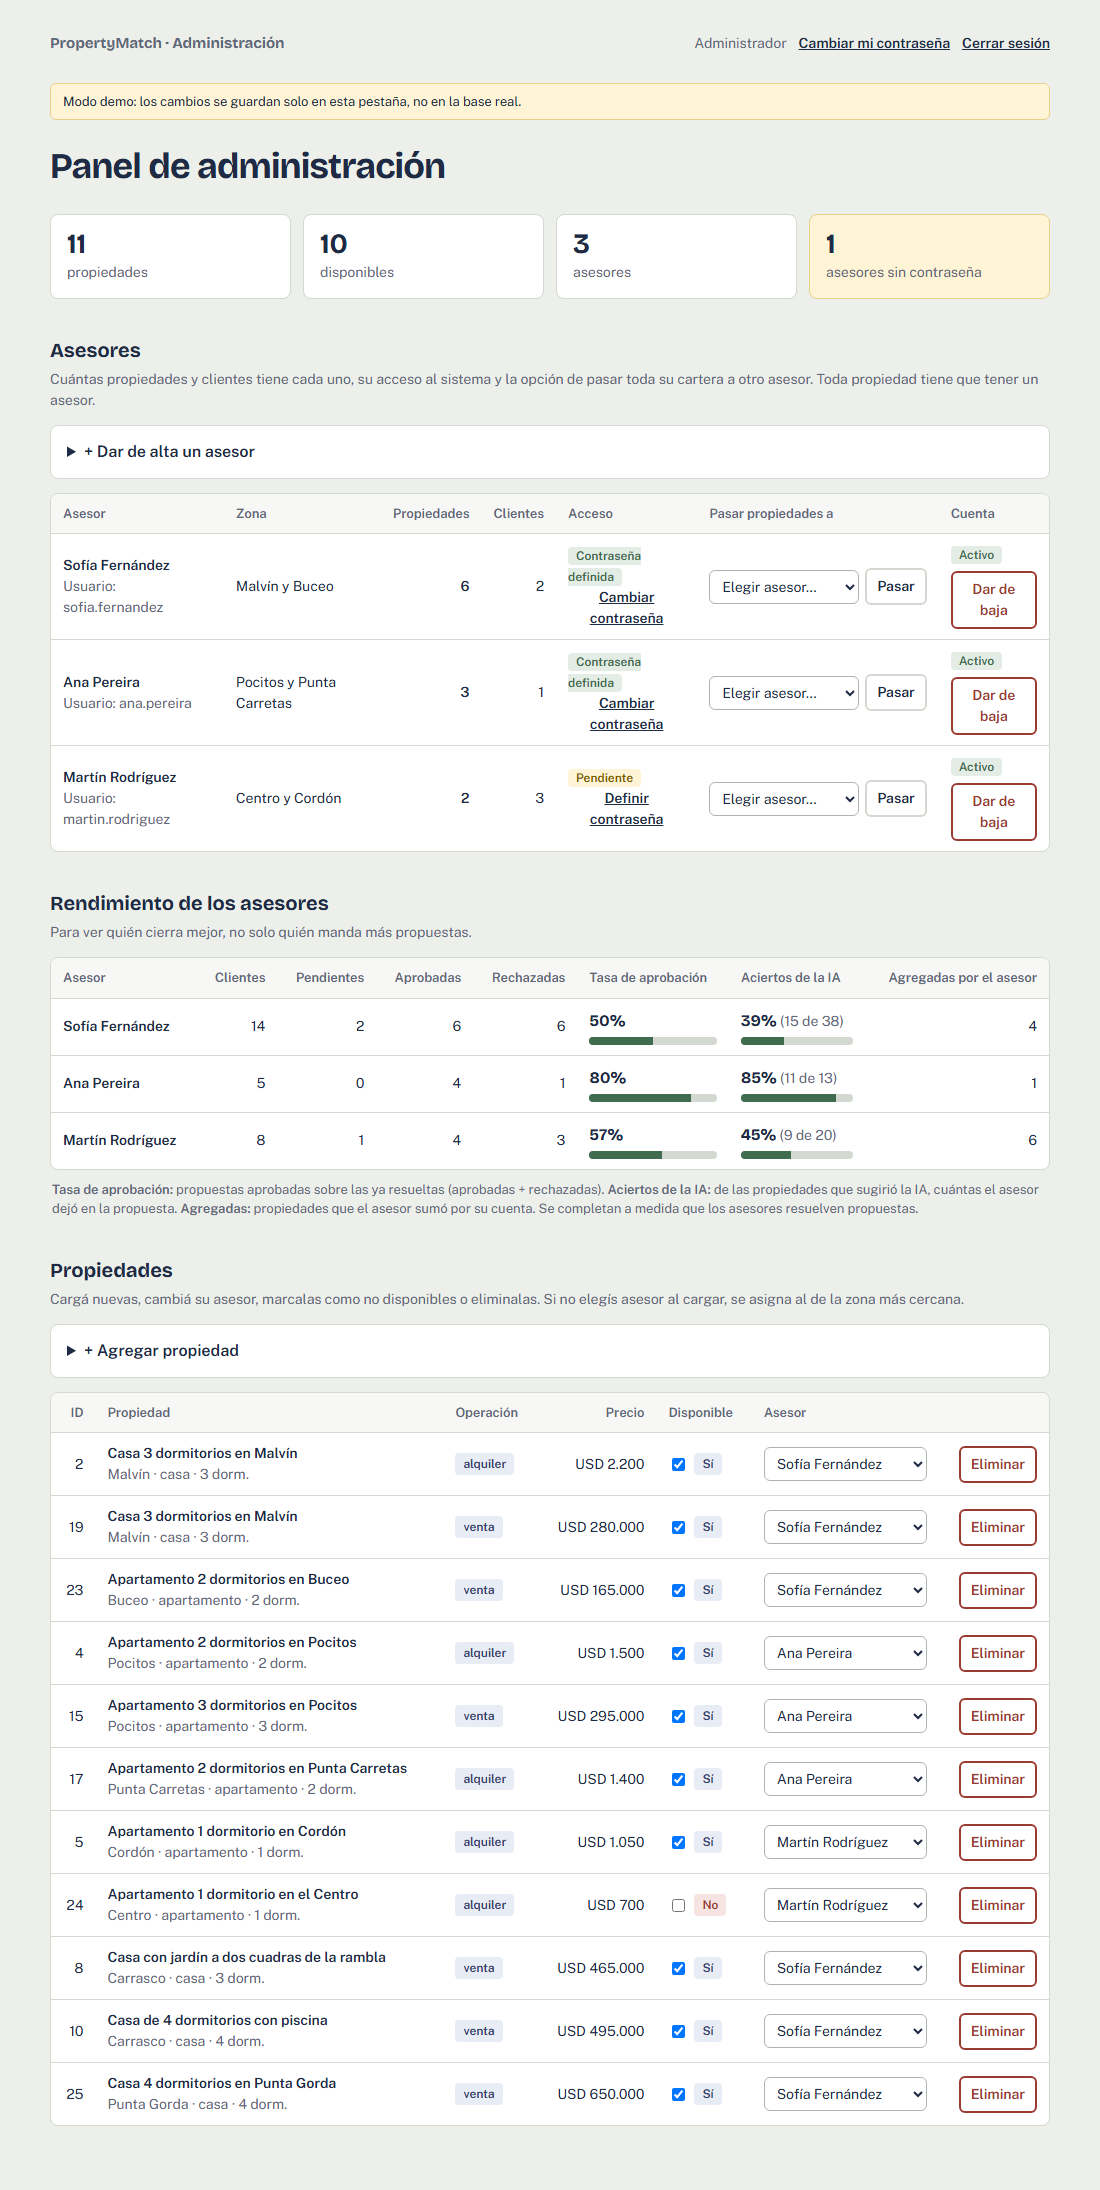
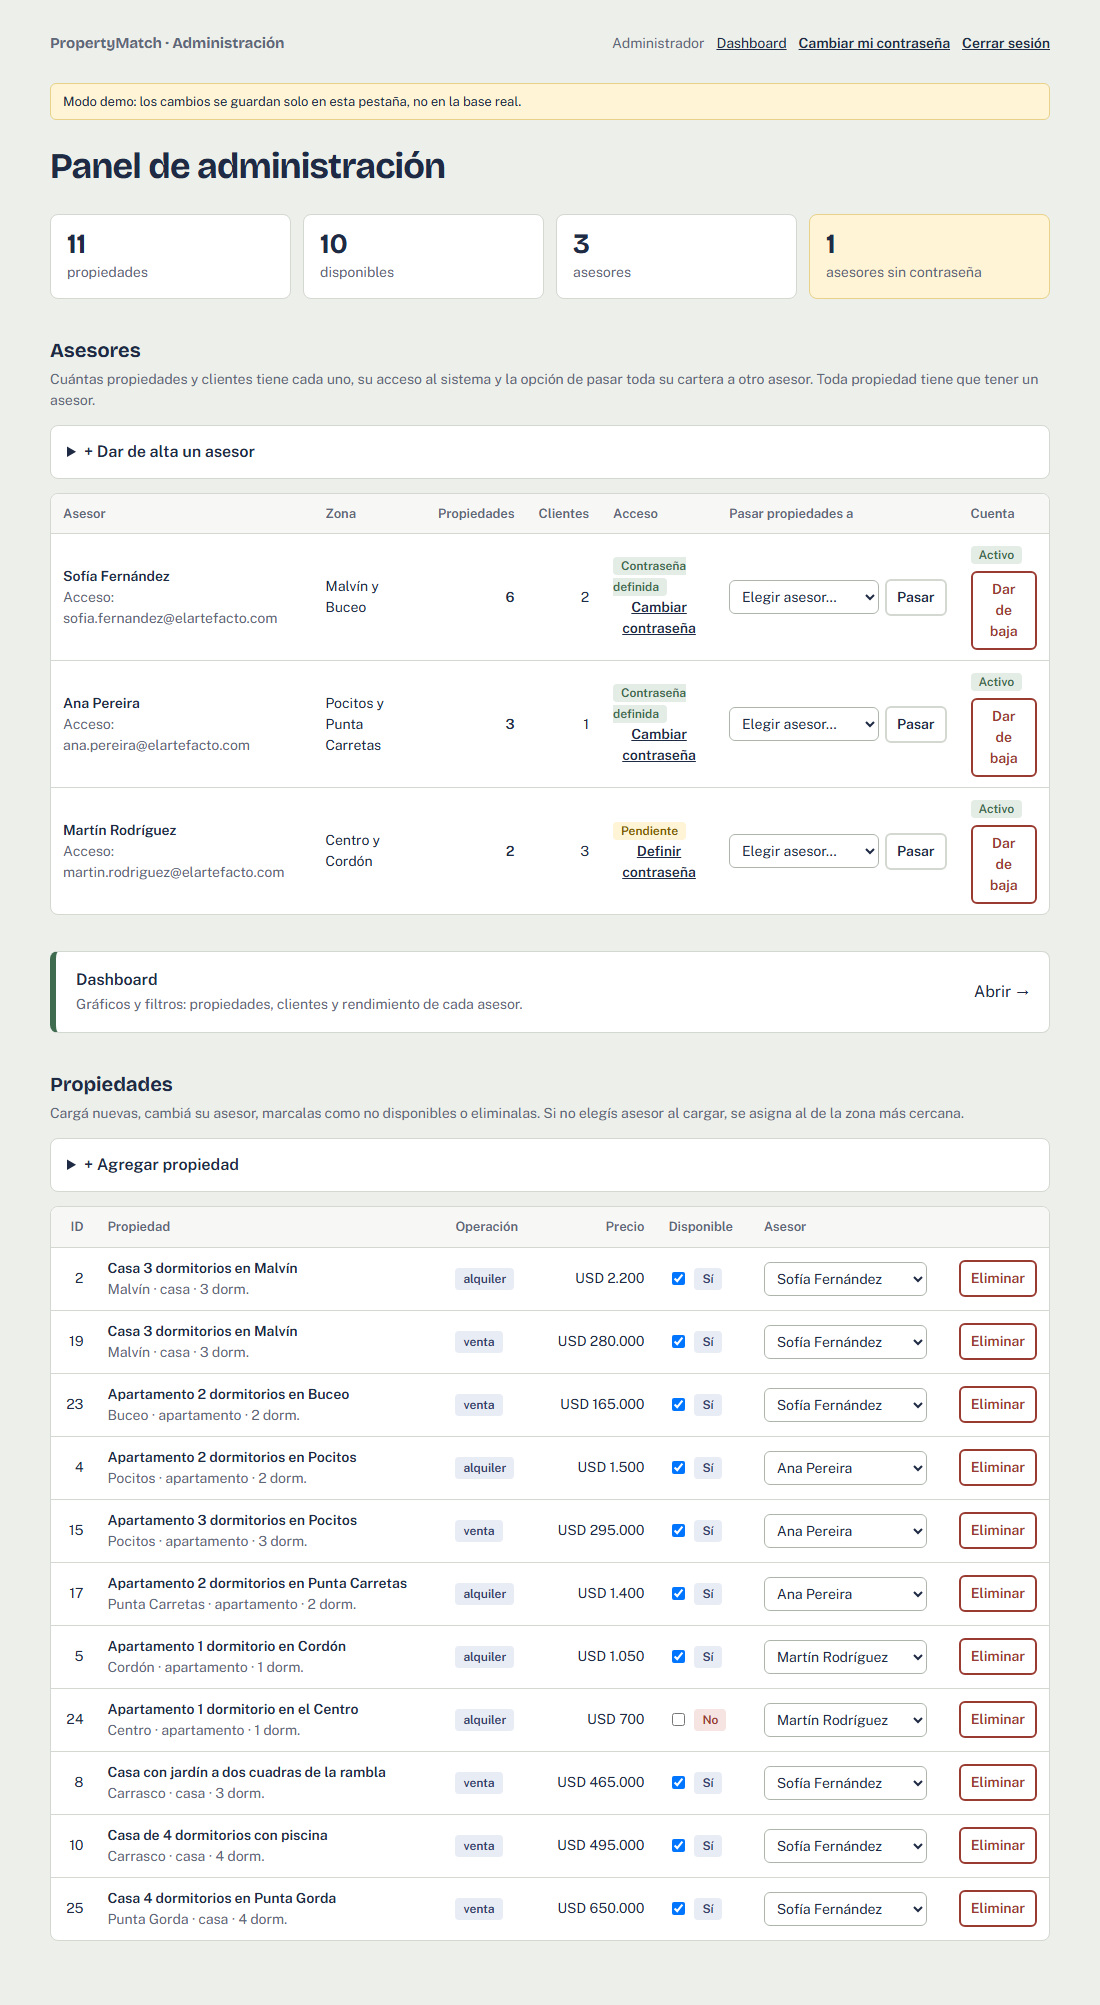
Login de asesores con email y contrasena; asesores = integrantes del grupo
- api/admin.js: el asesor entra con su email; el alta de asesores usa el mail como usuario
- index.html: el campo del login pasa a Email para asesores y Usuario para el administrador
- admin.html y auth.js: el panel muestra el acceso por email; el alta ya no pide usuario aparte
- docs y capturas actualizados

diff --git a/admin.html b/admin.html
@@ -90,10 +90,9 @@
             <div><label for="aEmail">Email</label><input type="email" id="aEmail" maxlength="160" required></div>
             <div><label for="aTel">Teléfono (opcional)</label><input type="text" id="aTel" maxlength="40"></div>
             <div><label for="aZona">Zona que cubre</label><input type="text" id="aZona" maxlength="100" placeholder="Ej.: Malvín y Buceo" required></div>
-            <div><label for="aUsuario">Usuario</label><input type="text" id="aUsuario" maxlength="40" autocapitalize="none" spellcheck="false" required></div>
             <div><label for="aClave">Contraseña inicial</label><input type="password" id="aClave" autocomplete="new-password" minlength="8" required></div>
           </div>
-          <p class="nota" style="margin:0 0 14px">La zona se usa para asignarle propiedades por cercanía. La contraseña tiene al menos 8 caracteres; la persona puede pedir que se la cambien.</p>
+          <p class="nota" style="margin:0 0 14px">La persona entra con su email. La zona se usa para asignarle propiedades por cercanía. La contraseña tiene al menos 8 caracteres.</p>
           <div class="acciones-form">
             <button type="submit" class="btn-ok">Dar de alta</button>
             <span id="errAsesor" class="msg err" role="alert" hidden></span>
@@ -222,7 +221,7 @@ function pintar() {
 
   $("tAsesores").innerHTML = asesores.map(a => `
     <tr class="${a.activo ? "" : "inactivo"}">
-      <td><strong>${esc(a.nombre)}</strong><br><span class="sub" style="margin:0">Usuario: ${esc(a.usuario || "—")}</span></td>
+      <td><strong>${esc(a.nombre)}</strong><br><span class="sub" style="margin:0">Acceso: ${esc(a.usuario || a.email || "—")}</span></td>
       <td>${esc(a.zona || "—")}</td>
       <td class="num"><strong>${a.propiedades_asignadas}</strong></td>
       <td class="num">${a.clientes_asignados}</td>
@@ -313,7 +312,7 @@ document.addEventListener("click", async e => {
   }
   if (b.dataset.clave) {
     const a = asesores.find(x => x.id === Number(b.dataset.clave));
-    abrirClave({ id: a.id, titulo: `Contraseña de ${a.nombre}`, sub: `Usuario: ${a.usuario}. La persona la usa para entrar como asesor.`, propia: false });
+    abrirClave({ id: a.id, titulo: `Contraseña de ${a.nombre}`, sub: `Entra con el email ${a.usuario}.`, propia: false });
   }
   if (b.dataset.traspasar) {
     const de = Number(b.dataset.traspasar);
@@ -370,7 +369,7 @@ $("formAsesor").addEventListener("submit", async e => {
   err.hidden = true;
   const datos = {
     nombre: $("aNombre").value.trim(), email: $("aEmail").value.trim(), telefono: $("aTel").value.trim(),
-    zona: $("aZona").value.trim(), usuario: $("aUsuario").value.trim().toLowerCase(), password: $("aClave").value
+    zona: $("aZona").value.trim(), password: $("aClave").value
   };
   const boton = e.target.querySelector("button[type=submit]");
   boton.disabled = true;
@@ -379,7 +378,7 @@ $("formAsesor").addEventListener("submit", async e => {
   if (!r.ok) { err.textContent = r.error || "No se pudo dar de alta."; err.hidden = false; return; }
   e.target.reset();
   $("nuevoAsesor").open = false;
-  aviso(`${r.asesor.nombre} ya puede entrar con el usuario ${r.asesor.usuario}.`);
+  aviso(`${r.asesor.nombre} ya puede entrar con su email (${r.asesor.usuario}).`);
   await cargar();
 });
 

diff --git a/auth.js b/auth.js
@@ -8,7 +8,7 @@
    ========================================================= */
 const PM = (() => {
   const KEY = "pm_sesion";
-  const DEMO_KEY = "pm_demo_db_v4";
+  const DEMO_KEY = "pm_demo_db_v5";
 
   const get = () => {
     try {
@@ -49,9 +49,9 @@ const PM = (() => {
     const db = {
       sig: 100,
       asesores: [
-        { id: 1, nombre: "Sofía Fernández", usuario: "sofia.fernandez", email: "sofia.fernandez@elartefacto.com", telefono: "099 111 222", zona: "Malvín y Buceo", activo: true, tiene_clave: true },
-        { id: 2, nombre: "Ana Pereira", usuario: "ana.pereira", email: "ana.pereira@elartefacto.com", telefono: "099 333 444", zona: "Pocitos y Punta Carretas", activo: true, tiene_clave: true },
-        { id: 3, nombre: "Martín Rodríguez", usuario: "martin.rodriguez", email: "martin.rodriguez@elartefacto.com", telefono: "099 555 666", zona: "Centro y Cordón", activo: true, tiene_clave: false }
+        { id: 1, nombre: "Sofía Fernández", usuario: "sofia.fernandez@elartefacto.com", email: "sofia.fernandez@elartefacto.com", telefono: "099 111 222", zona: "Malvín y Buceo", activo: true, tiene_clave: true },
+        { id: 2, nombre: "Ana Pereira", usuario: "ana.pereira@elartefacto.com", email: "ana.pereira@elartefacto.com", telefono: "099 333 444", zona: "Pocitos y Punta Carretas", activo: true, tiene_clave: true },
+        { id: 3, nombre: "Martín Rodríguez", usuario: "martin.rodriguez@elartefacto.com", email: "martin.rodriguez@elartefacto.com", telefono: "099 555 666", zona: "Centro y Cordón", activo: true, tiene_clave: false }
       ],
       clientes: [1, 1, 2, 3, 3, 3],
       rendimiento: {
@@ -188,13 +188,12 @@ const PM = (() => {
       }) };
     }
     if (action === "crear_asesor") {
-      const usuario = String(d.usuario || "").trim().toLowerCase();
+      const usuario = String(d.email || "").trim().toLowerCase();
       if (!String(d.nombre || "").trim()) return err("Falta el nombre.");
       if (!/^[^@\s]+@[^@\s]+\.[^@\s]+$/.test(String(d.email || ""))) return err("El email no es válido.");
-      if (!/^[a-z0-9._-]{3,40}$/.test(usuario)) return err("El usuario debe tener entre 3 y 40 caracteres: letras, números, punto, guion o guion bajo.");
       if (!String(d.zona || "").trim()) return err("Falta la zona: se usa para asignarle propiedades por cercanía.");
       if (String(d.password || "").length < 8) return err("La contraseña debe tener entre 8 y 100 caracteres.");
-      if (db.asesores.some(a => a.usuario === usuario)) return err("Ya existe un asesor con ese usuario.");
+      if (db.asesores.some(a => a.usuario === usuario)) return err("Ya existe un asesor con ese mail.");
       const id = Math.max(...db.asesores.map(a => a.id)) + 1;
       db.asesores.push({ id, nombre: d.nombre.trim(), usuario, email: d.email, telefono: d.telefono || "", zona: d.zona.trim(), activo: true, tiene_clave: true });
       guardarDemo(db);

diff --git a/api/admin.js b/api/admin.js
@@ -111,10 +111,11 @@ export default async function handler(req, res) {
       const password = typeof d.password === 'string' ? d.password : '';
       if (!usuario || !password) return fallo(res, 400, 'Ingresá usuario y contraseña.');
 
-      const { data, error } = await db.from('asesores')
-        .select('id,nombre,zona,usuario,password_hash,rol,activo').ilike('usuario', usuario.replace(/[%_\\]/g, '\\$&')).limit(1);
+      // El asesor entra con su mail (que es su usuario); el administrador, con su nombre de usuario.
+      const { data, error } = await db.from('asesores').select('id,nombre,zona,usuario,email,password_hash,rol,activo').eq('rol', rol);
       if (error) throw error;
-      const u = (data || [])[0];
+      const limpio = v => String(v ?? '').trim().toLowerCase();
+      const u = (data || []).find(x => limpio(x.usuario) === usuario || limpio(x.email) === usuario);
       const correcto = verificar(password, u?.password_hash) && !!u && u.activo && u.rol === rol;
       if (!correcto) {
         await new Promise(r => setTimeout(r, 700)); // frena los intentos repetidos
@@ -253,10 +254,9 @@ export default async function handler(req, res) {
 
     if (action === 'crear_asesor') {
       const nombre = texto(d.nombre, 100), email = texto(d.email, 160).toLowerCase();
-      const usuario = texto(d.usuario, 40).toLowerCase(), zona = texto(d.zona, 100);
+      const usuario = email, zona = texto(d.zona, 100); // el usuario del asesor es su mail
       if (!nombre) return fallo(res, 400, 'Falta el nombre.');
       if (!/^[^@\s]+@[^@\s]+\.[^@\s]+$/.test(email)) return fallo(res, 400, 'El email no es válido.');
-      if (!/^[a-z0-9._-]{3,40}$/.test(usuario)) return fallo(res, 400, 'El usuario debe tener entre 3 y 40 caracteres: letras, números, punto, guion o guion bajo.');
       if (!zona) return fallo(res, 400, 'Falta la zona: se usa para asignarle propiedades por cercanía.');
       if (!claveValida(d.password)) return fallo(res, 400, 'La contraseña debe tener entre 8 y 100 caracteres.');
       const { data: mx, error: e0 } = await db.from('asesores').select('id').order('id', { ascending: false }).limit(1);
@@ -266,7 +266,7 @@ export default async function handler(req, res) {
         usuario, password_hash: hashear(d.password), rol: 'asesor', activo: true
       }).select('id,nombre,usuario,zona').single();
       if (error) {
-        if (error.code === '23505') return fallo(res, 409, 'Ya existe un asesor con ese usuario.');
+        if (error.code === '23505') return fallo(res, 409, 'Ya existe un asesor con ese mail.');
         throw error;
       }
       return ok(res, { asesor: data });

diff --git a/index.html b/index.html
@@ -38,7 +38,7 @@
   <header class="topbar"><p class="brand">PropertyMatch IA</p></header>
   <div id="demoNote" class="demo" hidden>
     Modo demo: datos de ejemplo, no se toca la base real.<br>
-    Asesor: usuario <code>sofia.fernandez</code> · Administrador: usuario <code>propertymatchia</code><br>
+    Asesor: <code>sofia.fernandez@elartefacto.com</code> · Administrador: usuario <code>propertymatchia</code><br>
     Contraseña en ambos casos: <code>demo</code>
   </div>
 
@@ -64,8 +64,8 @@
 
       <form id="formLogin" novalidate>
         <div class="campo">
-          <label for="usuario">Usuario</label>
-          <input type="text" id="usuario" autocomplete="username" autocapitalize="none" spellcheck="false" required>
+          <label for="usuario" id="lblUsuario">Email</label>
+          <input type="text" id="usuario" autocomplete="username" autocapitalize="none" spellcheck="false" inputmode="email" placeholder="nombre@gmail.com" required>
         </div>
         <div class="campo">
           <label for="clave">Contraseña</label>
@@ -103,7 +103,11 @@ if (actual) {
 /* Cambio de rol */
 const rolElegido = () => ($("rolAdmin").checked ? "administrador" : "asesor");
 function mostrarRol() {
-  $("btnEntrar").textContent = rolElegido() === "administrador" ? "Entrar como administrador" : "Entrar como asesor";
+  const admin = rolElegido() === "administrador";
+  $("btnEntrar").textContent = admin ? "Entrar como administrador" : "Entrar como asesor";
+  $("lblUsuario").textContent = admin ? "Usuario" : "Email";
+  $("usuario").placeholder = admin ? "" : "nombre@gmail.com";
+  $("usuario").inputMode = admin ? "text" : "email";
   $("error").hidden = true;
   $("usuario").focus();
 }
@@ -120,7 +124,7 @@ $("formLogin").addEventListener("submit", async e => {
   const rol = rolElegido();
   const usuario = $("usuario").value.trim();
   const password = $("clave").value;
-  if (!usuario || !password) return error("Ingresá usuario y contraseña.");
+  if (!usuario || !password) return error(rol === "administrador" ? "Ingresá usuario y contraseña." : "Ingresá tu email y tu contraseña.");
   const boton = $("btnEntrar");
   boton.disabled = true;
   $("error").hidden = true;

diff --git a/docs/REQUERIMIENTOS_ADMINISTRADOR.md b/docs/REQUERIMIENTOS_ADMINISTRADOR.md
@@ -18,7 +18,7 @@ La motivación viene de una observación de la cátedra: dos asesores pueden ten
 ## 3. Requerimientos funcionales
 
 ### 3.1 Acceso
-**RF-24 — Autenticación.** El sistema deberá permitir ingresar con usuario y contraseña, eligiendo el tipo de acceso (asesor o administrador). Un usuario solo puede entrar por el tipo de acceso que le corresponde.
+**RF-24 — Autenticación.** El sistema deberá permitir ingresar con contraseña, eligiendo el tipo de acceso: el asesor se identifica con su email y el administrador con su nombre de usuario. Un usuario solo puede entrar por el tipo de acceso que le corresponde.
 
 **RF-25 — Contraseñas.** Las contraseñas se almacenarán de forma no reversible. El administrador podrá definir la contraseña de un asesor y cambiar la propia. Un asesor sin contraseña definida no podrá ingresar.
 
@@ -35,7 +35,7 @@ La motivación viene de una observación de la cátedra: dos asesores pueden ten
 **RF-30 — Reasignación.** El administrador podrá cambiar el asesor de una propiedad, o traspasar toda la cartera de un asesor a otro. No se podrá dejar una propiedad sin asesor.
 
 ### 3.4 Gestión de asesores
-**RF-31 — Alta de asesores.** El administrador podrá dar de alta un asesor con nombre, email, teléfono, zona, usuario y contraseña inicial. El usuario deberá ser único.
+**RF-31 — Alta de asesores.** El administrador podrá dar de alta un asesor con nombre, email, teléfono, zona y contraseña inicial. El email, que es también su usuario de acceso, deberá ser único.
 
 **RF-32 — Baja de asesores.** El administrador podrá dar de baja un asesor. Es una baja lógica: se conserva su historial. Sus propiedades y sus clientes con propuesta pendiente pasarán automáticamente a los demás asesores, según cercanía. No se podrá dar de baja al único asesor activo.
 

diff --git a/docs/ESTADO.md b/docs/ESTADO.md
@@ -95,3 +95,11 @@ Actualizado: 2026-10-01. Lo que figura como "hecho" sale del repo y de la conver
 - Hecho: el rendimiento salió del panel de gestión (`admin.html`), que ahora enlaza al dashboard. Acción nueva en `api/admin.js`: `dashboard`.
 - Revertido: las reasignaciones que se habían hecho a mano en producción (10 propiedades de Sofía pasadas a Ana) volvieron a la asignación por cercanía.
 - Pendiente: publicar. El dashboard con datos reales mostrará clientes y propuestas recién cuando n8n escriba en `clientes.estado` y `propuestas`.
+
+## Actualización: asesores = integrantes del grupo (2026-10-22)
+- Los asesores pasaron a ser las integrantes del grupo (nombres y mails cargados en `asesores`). Entran con su **email** y una contraseña; el administrador entra con el usuario `propertymatchia`.
+- Corregido: el mail de una asesora tenía un salto de línea oculto (se había colado al pegarlo); se limpiaron los mails y el usuario de cada asesora es ahora su mail.
+- Restaurado: la cuenta de administrador se había borrado de `asesores`; se volvió a crear (rol `administrador`).
+- Cambio en código: el login del asesor compara el email; el alta de asesores ya no pide un usuario aparte (el usuario es el mail).
+- Recomendación pendiente: las tres asesoras y el administrador comparten hoy la misma contraseña. Para la entrega alcanza, pero conviene que cada una la cambie desde el panel («Cambiar contraseña») y que el administrador tenga una distinta.
+- Observación: el mail del administrador (`propertymatchia@gmail.com`) está en la tabla `asesores`; al asignar asesores desde n8n hay que filtrar `rol = 'asesor'`.
